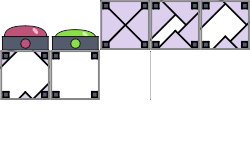
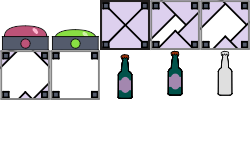
ftr(Bottle): add base bottle logic

Changed region(s): [[0.392, 0.0, 0.616, 0.6667], [0.644, 0.32, 0.756, 0.64], [0.868, 0.32, 0.952, 0.64]]

diff --git a/happily/src/game/Core.js b/happily/src/game/Core.js
@@ -1,4 +1,5 @@
 import Phaser from '../lib/phaser.js';
+import Bottle from './Bottle.js';
 import Button from './Button.js';
 
 import Config from './Config.js';
@@ -40,8 +41,14 @@ export default class Core {
     /** @type {Door[]} */
     _doors;
 
+    /** @type {Bottle[]} */
+    _bottles;
+
     /** @type {Number} */
     _levelIndex;
+
+    /** @type {Phaser.GameObjects.Image} */
+    _bigBottle;
 
     /**
      * @param {Phaser.Scene} scene 
@@ -94,6 +101,19 @@ export default class Core {
             const door = new Door(doorGroup, config.doors[i].x, config.doors[i].y);
             me._doors.push(door);
         }
+
+        me._bottles = [];
+        for (let i = 0; i < config.bottles.length; ++i) {
+            const bottle = new Bottle(scene, config.bottles[i].x, config.bottles[i].y);
+            me._bottles.push(bottle);
+        }
+
+        me._bigBottle = scene.add.image(75, 725, 'big_bottle')
+            .setAngle(-15)
+            .setDepth(Consts.Depth.Foreground)
+            .setScrollFactor(0)
+            .setScale(0.75)
+            .setVisible(false);
 
         // phaser
 
@@ -155,6 +175,12 @@ export default class Core {
                         : door.close();
                 }
             }
+        }
+
+        if (!me._bigBottle.visible) {
+            const bottle = Utils.firstOrNull(me._bottles, (b) => b.check(player));
+            if (!!bottle)
+                me._bigBottle.setVisible(true);
         }
 
         // debug

diff --git a/happily/src/game/Bottle.js b/happily/src/game/Bottle.js
@@ -1,0 +1,51 @@
+import Phaser from '../lib/phaser.js';
+
+import Config from './Config.js';
+import Consts from './Consts.js';
+import Enums from './Enums.js';
+import Utils from './Utils.js';
+
+export default class Bottle {
+
+    /** @type {Phaser.GameObjects.Sprite} */
+    _sprite;
+
+    /** @type {Boolean} */
+    _taked;
+
+    /**
+     * @param {Phaser.Scene} scene 
+     * @param {Number} x 
+     * @param {Number} y 
+     */
+    constructor(scene, x, y) {
+        const me = this;
+
+        me._sprite = scene.add.sprite(x, y, 'items', 7);
+        me._sprite.play('bottle');
+
+        me._taked = false;
+    }
+
+    check(pos) {
+        const me = this;
+
+        if (me._taked)
+            return false;
+
+        const needTake = Phaser.Math.Distance.BetweenPoints(pos, Utils.toPoint(me._sprite)) < 50;
+        if (needTake) {
+            me._sprite.stop();
+            me._sprite.setFrame(9);
+        }
+
+        return needTake;
+    }
+
+    reset() {
+        const me = this;
+
+        me._sprite.play('bottle');
+        me._taked = false;
+    }
+}

diff --git a/happily/src/scenes/Game.js b/happily/src/scenes/Game.js
@@ -19,6 +19,7 @@ export default class Game extends Phaser.Scene {
         me.load.tilemapCSV('level0', 'assets/level0.csv');
 
         Utils.loadImage(me, 'background');
+        Utils.loadImage(me, 'big_bottle');
 
         Utils.loadSpriteSheet(me, 'tiles', Consts.Unit.Small);
         Utils.loadSpriteSheet(me, 'player', Consts.Unit.Big);
@@ -150,6 +151,13 @@ export default class Game extends Phaser.Scene {
             frames: me.anims.generateFrameNumbers('items', { frames: [ 6, 5, 4, 3, 2 ] }),
             frameRate: 10,
             repeat: 0
+        });
+
+        me.anims.create({
+            key: 'bottle',
+            frames: me.anims.generateFrameNumbers('items', { frames: [ 7, 8 ] }),
+            frameRate: 5,
+            repeat: -1
         });
     }
 }

diff --git a/happily/src/game/Config.js b/happily/src/game/Config.js
@@ -9,21 +9,13 @@ export default class Config {
     static Levels = [
         {
             buttons: [
-                {
-                    x: 375,
-                    y: 739,
-                    doors: [ 0, 1 ]
-                },
-                {
-                    x: 325,
-                    y: 739,
-                    doors: [ 2 ]
-                }
+                // { x: 375, y: 739, doors: [ 0, 1 ] }
             ],
             doors: [
-                { x: 565, y: 670 },
-                { x: 515, y: 670 },
-                { x: 565, y: 620 }
+                // { x: 565, y: 670 }
+            ],
+            bottles: [
+                { x: 325, y: 725 }
             ]
         }
     ]
